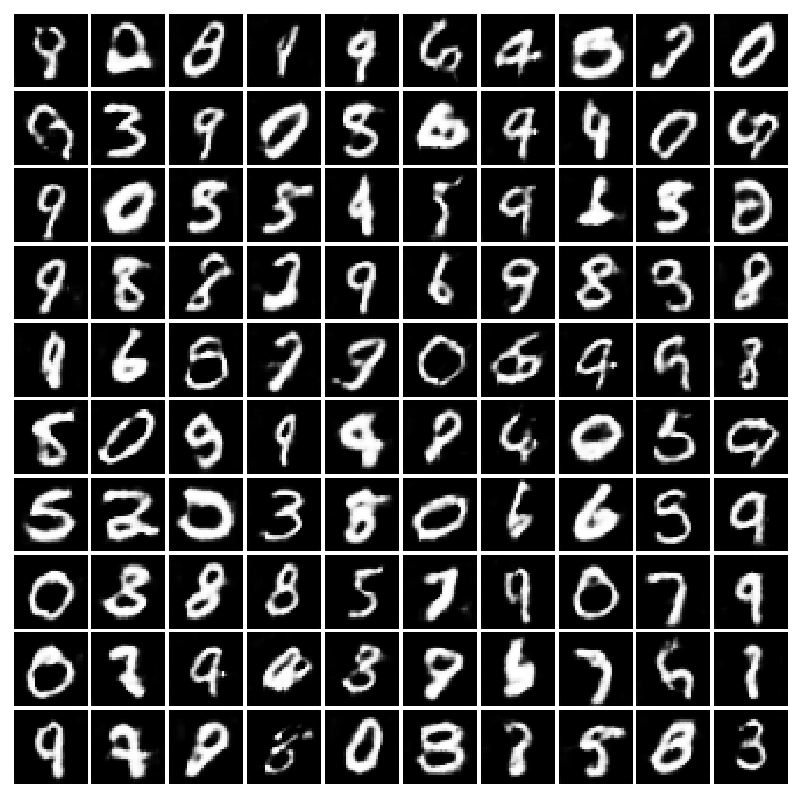
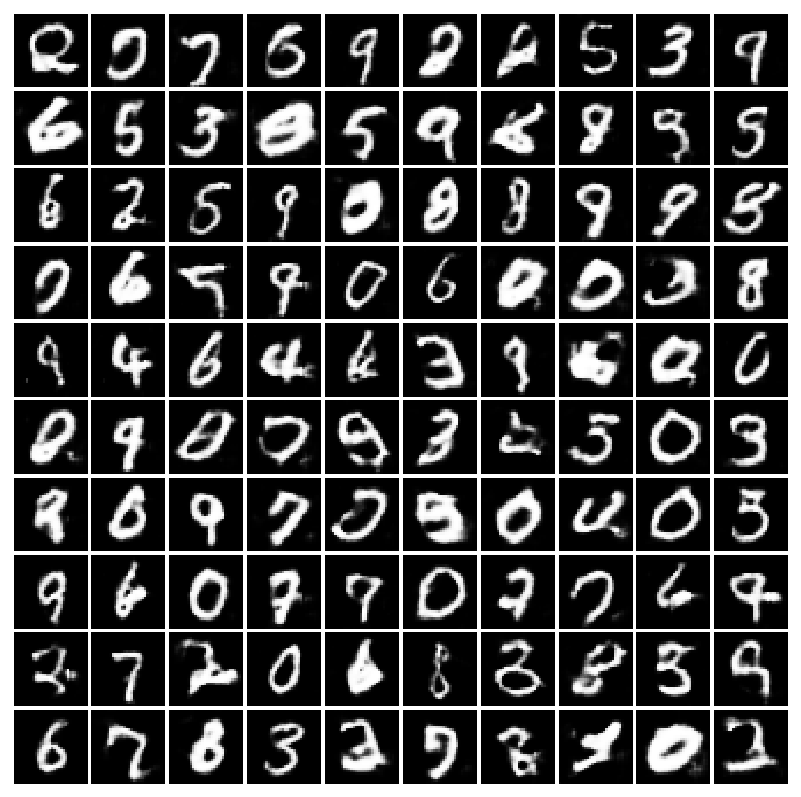
train with fixed deconv1

diff --git a/trans_DCGAN.py b/trans_DCGAN.py
@@ -44,6 +44,6 @@ discriminator = Discriminator()
 generator.deconv1 = pretrained_generator.layer1_input
 generator.deconv1.requires_grad = False
 d_lr = .0002
-g_lr = d_lr/2
+g_lr = d_lr
 # g_lr = d_lr * .01
 train_gan(discriminator, generator, train_loader, 20, batch_size, g_lr, d_lr, dtype, filename_prefix="trans_DCGAN-")
